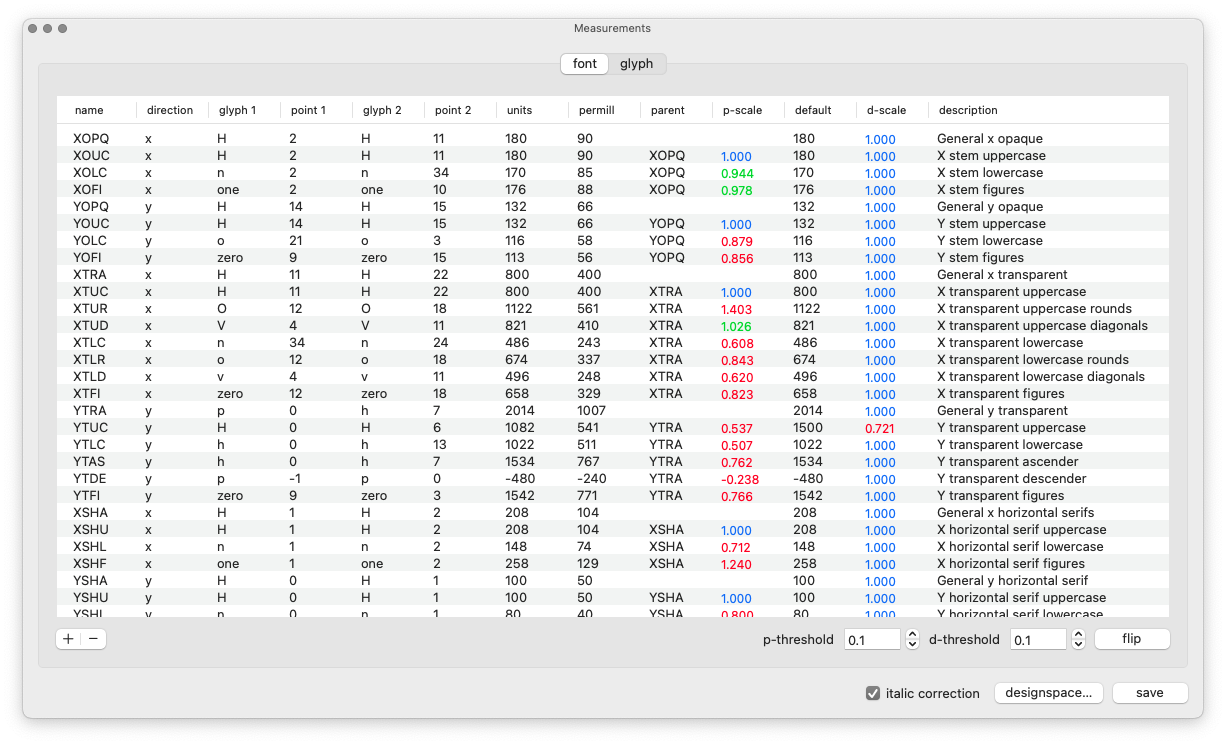
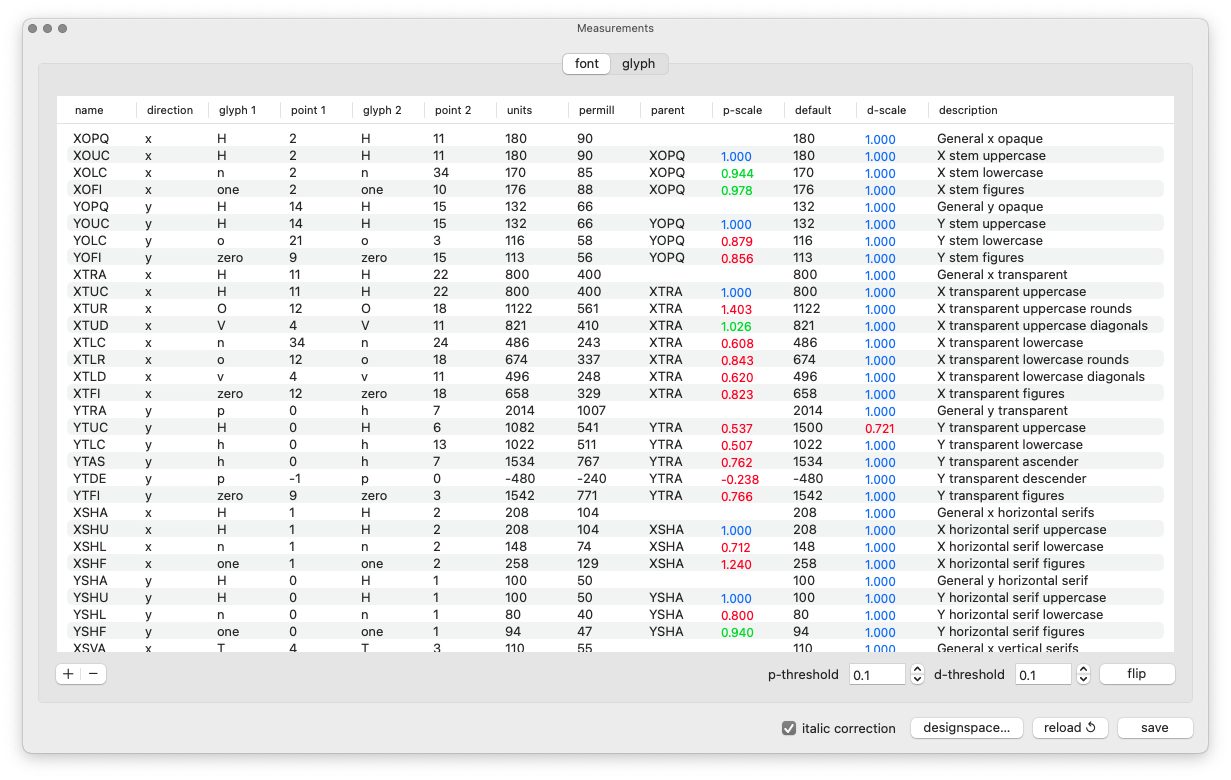
more updates to the docs, fixing layout bug in BlendsPreview

diff --git a/Lib/xTools4/dialogs/variable/Measurements.py b/Lib/xTools4/dialogs/variable/Measurements.py
@@ -151,6 +151,7 @@ class MeasurementsController(ezui.WindowController):
     [X] italic correction @italicCorrection
 
     ( designspace… ) @getDesignspaceButton
+    ( reload ↺ )     @reloadButton
     ( save  )        @saveButton
     # ( default… )   @defaultButton
     # ( PDF… )       @makePdfButton
@@ -438,6 +439,12 @@ class MeasurementsController(ezui.WindowController):
             maxValue=10.0,
             valueIncrement=0.01,
         ),
+        getDesignspaceButton=dict(
+            width=buttonWidth*1.5,
+        ),
+        reloadButton=dict(
+            width=buttonWidth,
+        ),
         saveButton=dict(
             width=buttonWidth,
         ),
@@ -515,30 +522,10 @@ class MeasurementsController(ezui.WindowController):
         self.designspacePath = GetFile(message='Select designspace file:', title=self.title)
         if self.designspacePath is None:
             return
+        self._loadDesignspace()
 
-        self.designspace = DesignSpaceDocument()
-        self.designspace.read(self.designspacePath)
-
-        if self.measurementsPath is None:
-            return
-
-        if self.verbose:
-            print(f'loading data from {os.path.split(self.measurementsPath)[-1]}... ', end='')
-
-        self.measurements = readMeasurements(self.measurementsPath)
-
-        self._loadFontMeasurements()
-        self._loadGlyphMeasurements()
-
-        if self.verbose:
-            print(f'loading default source from {os.path.split(defaultPath)[-1]}... ', end='')
-
-        self.defaultFont = OpenFont(self.defaultPath, showInterface=False)
-
-        if self.verbose:
-            print('done.\n')
-
-        postEvent(f"{self.key}.changed")
+    def reloadButtonCallback(self, sender):
+        self._loadDesignspace()
 
     def saveButtonCallback(self, sender):
         self._updateGlyphMeasurementsDict()
@@ -822,6 +809,32 @@ class MeasurementsController(ezui.WindowController):
     # -------
     # methods
     # -------
+
+    def _loadDesignspace(self):
+
+        self.designspace = DesignSpaceDocument()
+        self.designspace.read(self.designspacePath)
+
+        if self.measurementsPath is None:
+            return
+
+        if self.verbose:
+            print(f'loading data from {os.path.split(self.measurementsPath)[-1]}... ', end='')
+
+        self.measurements = readMeasurements(self.measurementsPath)
+
+        self._loadFontMeasurements()
+        self._loadGlyphMeasurements()
+
+        if self.verbose:
+            print(f'loading default source from {os.path.split(defaultPath)[-1]}... ', end='')
+
+        self.defaultFont = OpenFont(self.defaultPath, showInterface=False)
+
+        if self.verbose:
+            print('done.\n')
+
+        postEvent(f"{self.key}.changed")
 
     def _loadFontMeasurements(self):
         table = self.w.getItem("fontMeasurements")

diff --git a/Lib/xTools4/modules/blendsPreview.py b/Lib/xTools4/modules/blendsPreview.py
@@ -286,8 +286,8 @@ class BlendsPreview:
                     parametricLocation = getEffectiveLocation(self.designspacePath, blendedLocation)
                     g2 = instantiateGlyph(self.operator, glyphName, parametricLocation)
 
-                    if not g2:
-                        continue
+                    # if not g2:
+                    #     continue
 
                     # get var distance
                     n = getVarDistance(blendedLocation, defaultBlendedLocation)
@@ -389,7 +389,7 @@ class BlendsPreview:
 
                     DB.restore()
 
-            DB.translate(0, cellHeight*3)
+            DB.translate(0, cellHeight * len(axis2Values))
 
     def save(self, pdfPath):
         DB.saveImage(pdfPath)

diff --git a/Lib/xTools4/dialogs/variable/BlendsPreview.py b/Lib/xTools4/dialogs/variable/BlendsPreview.py
@@ -127,7 +127,7 @@ class BlendsPreviewController:
             (x + 90, y, -p, self.lineHeight),
             minValue=1,
             maxValue=4,
-            value=2,
+            value=4,
             tickMarkCount=4,
             stopOnTickMarks=True,
             # callback=self.updatePreviewCallback,
@@ -228,6 +228,8 @@ class BlendsPreviewController:
             return
         self.operator.read(self.designspacePath)
         self.operator.loadFonts()
+
+        self._updateAxesList()
 
     def loadReferenceFontCallback(self, sender):
         self.referenceFontPath = GetFile(message='Select reference font:')

diff --git a/docs/_reference/variable/blends-preview.md b/docs/_reference/variable/blends-preview.md
@@ -14,9 +14,12 @@ A tool for previewing blended locations from a parametric designspace and compar
 designspace…
 : Load designspace data from an external file.
 
+reload
+: Reload the previously selected designspace file.
+
 blended axes
 : ^
-  A list of blended axes (mappings) and values in the loaded designspace.  
+  A table with blended axes (mappings) and values in the loaded designspace.  
   The list of values for each axis can be edited.
 
 reference font…

diff --git a/docs/_reference/variable/measurements.md b/docs/_reference/variable/measurements.md
@@ -15,6 +15,9 @@ A tool to create and visualize font- and glyph-level measurements.
 designspace…
 : Load a designspace file and linked measurements data into the UI.
 
+reload
+: Reload the previously selected designspace file.
+
 save
 : Save the measurements data back to the external JSON file from which it was loaded.
 

diff --git a/docs/changelog.md b/docs/changelog.md
@@ -13,6 +13,7 @@ All notable changes to xTools4 are documented in this file.
 -----
 
 - <span class='badge rounded-0'>Changed</span> Making designspace files the single entry point for variable tools.
+{: ._changelog .mb-4 }
 
 
 0.2.4
